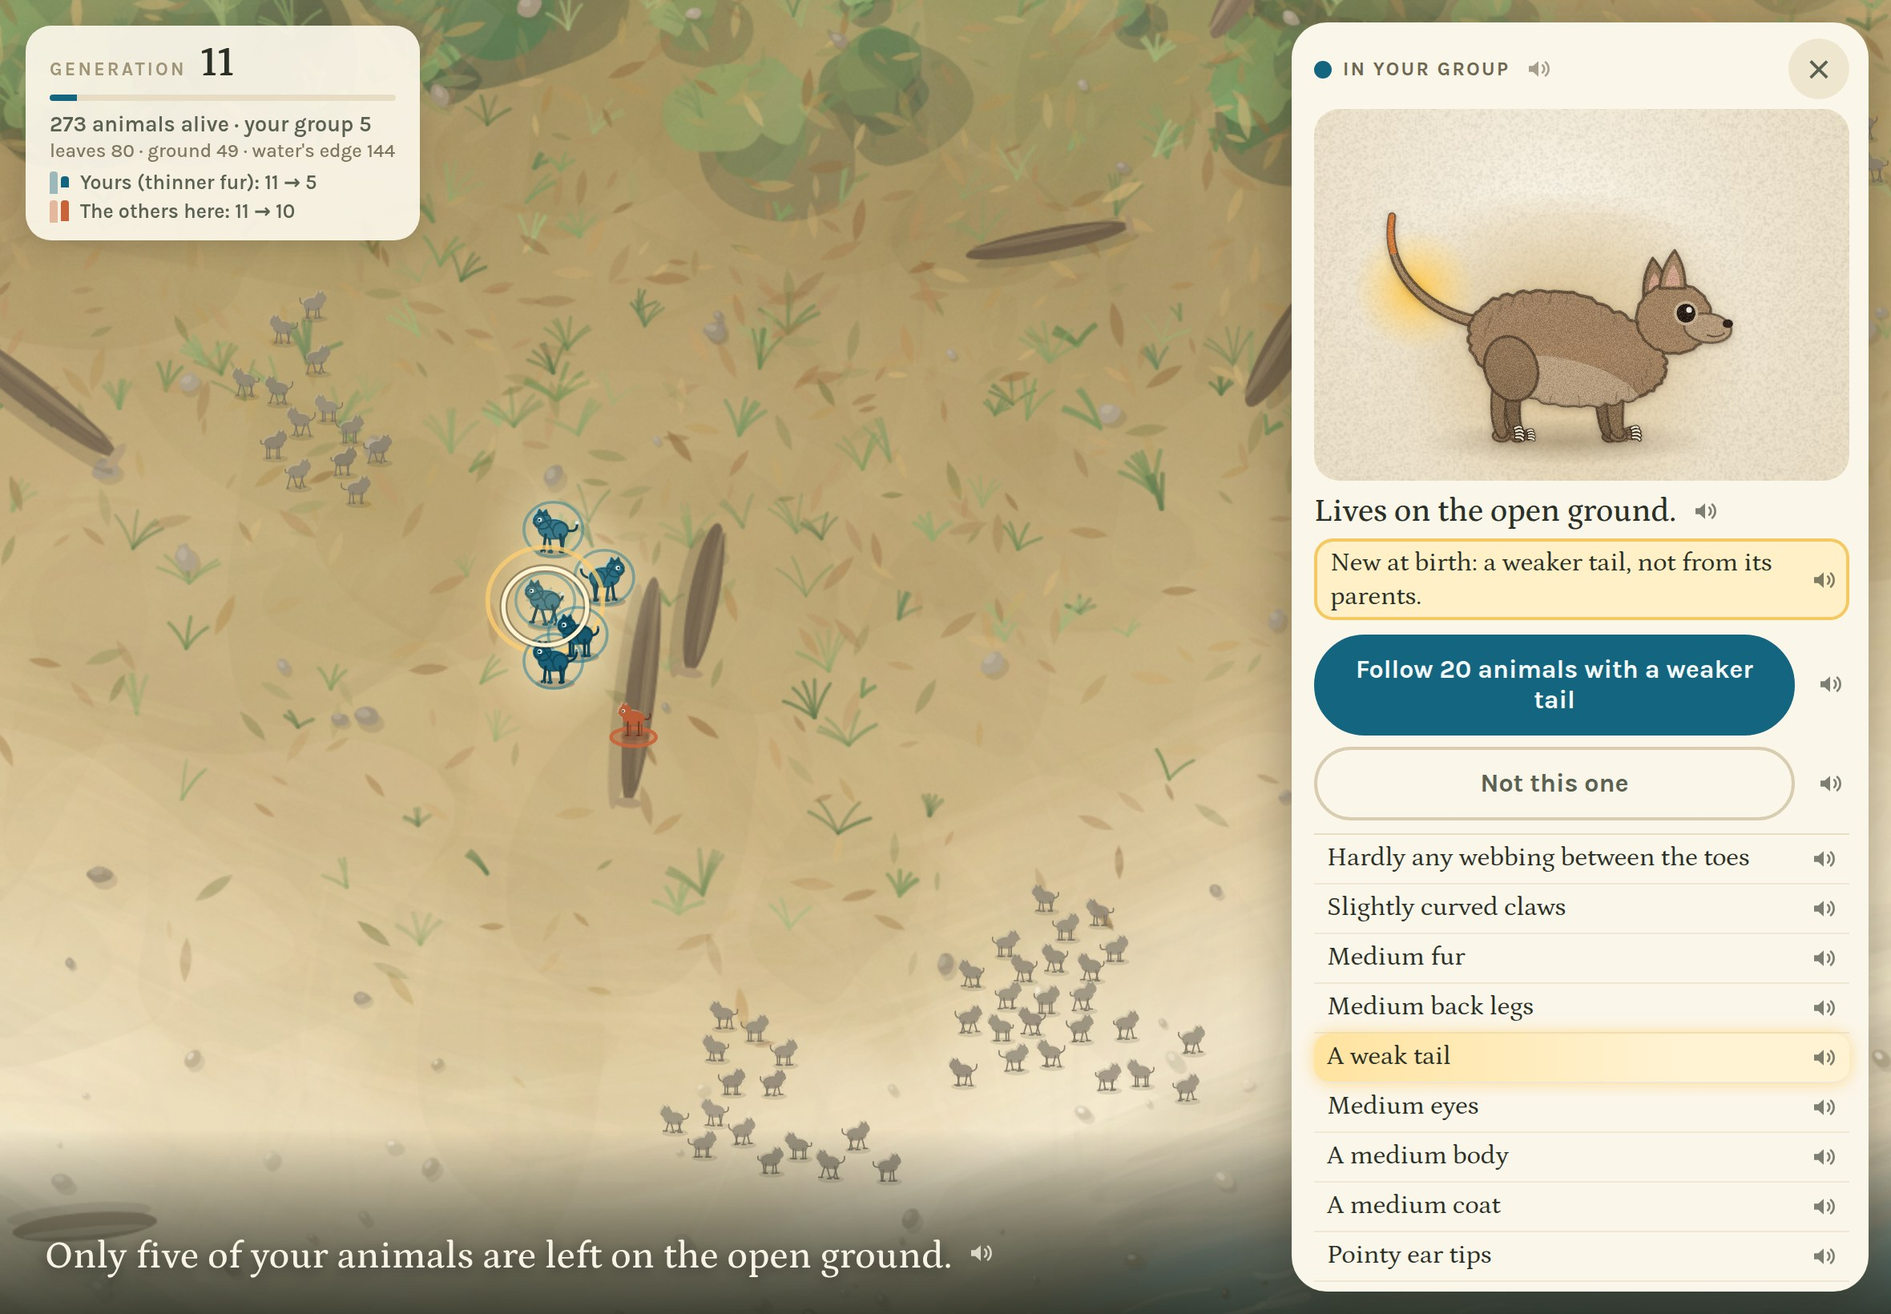
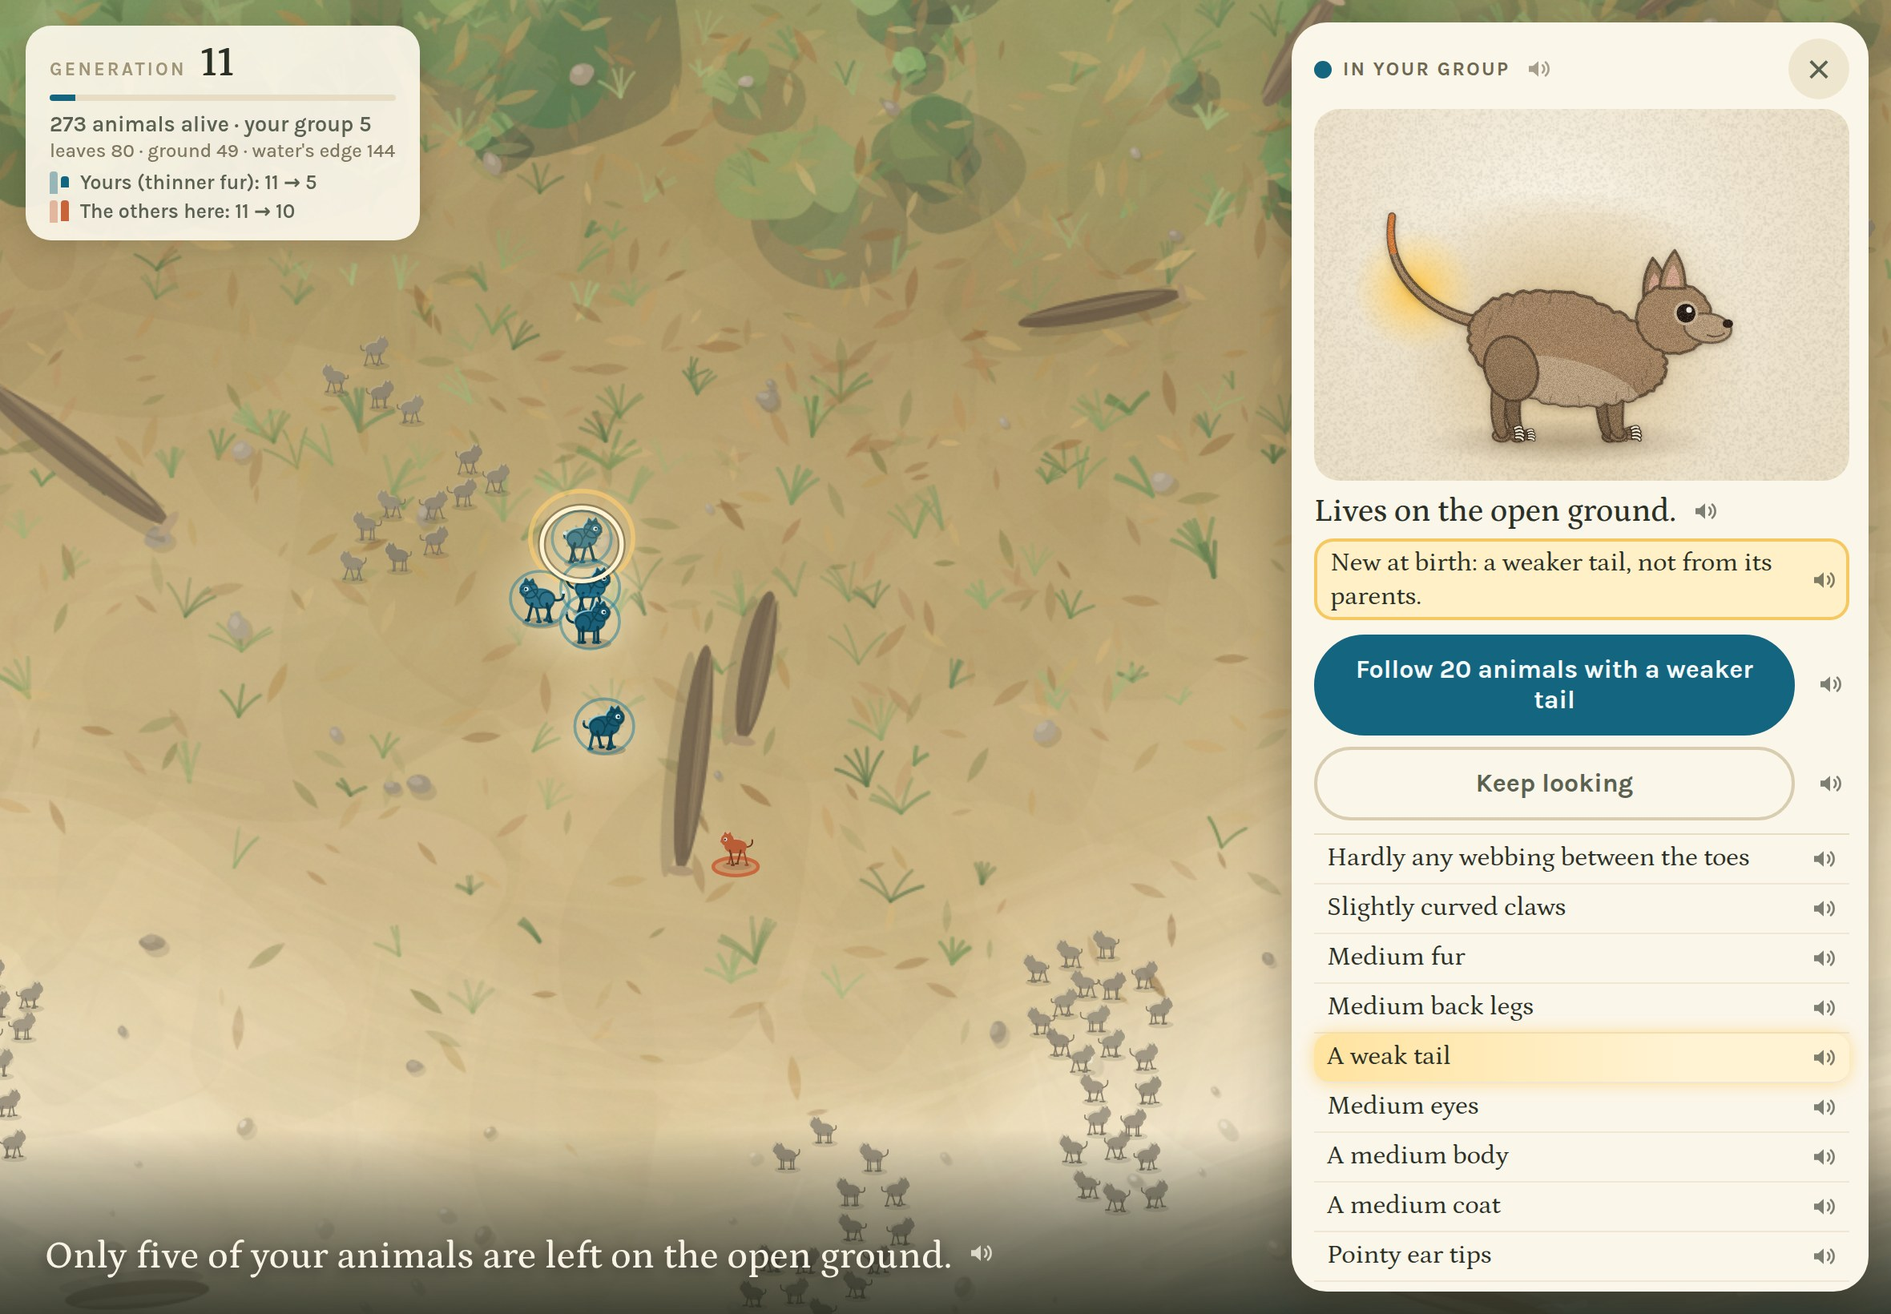
"Keep looking" replaces "Not this one" on a glowing baby's card
It closes the card and leaves the glow on, so a child can look at
several babies and come back to one. The glow still ends on its own
after GLOW_GENERATIONS. ×, a tap on empty ground and Escape still close
the card. Scope decision 43; the follow and card screenshots were shot
again. lineage-m1 is unchanged.

Claude-Session: https://claude.ai/code/session_01GSopAEV6FFZ4i4mLAerJib

diff --git a/game/src/main.js b/game/src/main.js
@@ -27,7 +27,7 @@ import {
   skipDoneLines, lastPassed, madeIt, endingTitle, question, choicesHeading, choiceRecap, noChoices, neutralLines,
   evidenceLine, countLine, YOURS, SINCE_TITLE, comparisonLines, OTHERS_HERE, yoursWith, fairHeading, OTHERS_DIED_TOO, OTHERS_ALIVE,
   inYour, notInYour, PASSED_AWAY, livesLine, newAtBirthLine, lookLine,
-  GLOW_HINT, followButton, followSpread, NOT_THIS, spreadLine, SPREAD_GONE, SPREAD_SHORT, SPREAD_COMMON,
+  GLOW_HINT, followButton, followSpread, KEEP_LOOKING, spreadLine, SPREAD_GONE, SPREAD_SHORT, SPREAD_COMMON,
 } from "./narration.js";
 import { speakerButton, isSpeaking } from "./speech.js";
 import {
@@ -493,10 +493,12 @@ export class Game {
     this.updateCard(); // follow buttons again
   }
 
-  /** "Not this one": it stops glowing. No group is made. */
-  notThis(g) {
-    this.story.dismiss(g.id);
-    this.syncGroups();
+  /**
+   * "Keep looking": the card closes and the baby keeps glowing, so the child can
+   * look at others and come back to it (scope decision 43). Its glow still ends
+   * on its own after GLOW_GENERATIONS.
+   */
+  keepLooking() {
     this.closeCard();
   }
 
@@ -828,11 +830,11 @@ export class Game {
 
   /**
    * A glowing newborn's card always offers to follow its new variation (scope
-   * decisions 32, 36 and 42), and "Not this one". When both sides have at least
-   * MIN_SIZE animals in its habitat, the button says the fair test's real size:
-   * "Follow 14 animals with smaller eyes". Otherwise "Follow animals with
-   * smaller eyes", and the world first fast-forwards to see if it spreads. Only
-   * while the world is watched and follows are left.
+   * decisions 32, 36 and 42), and "Keep looking" (decision 43). When both sides
+   * have at least MIN_SIZE animals in its habitat, the button says the fair
+   * test's real size: "Follow 14 animals with smaller eyes". Otherwise "Follow
+   * animals with smaller eyes", and the world first fast-forwards to see if it
+   * spreads. Only while the world is watched and follows are left.
    */
   renderFollow() {
     const c = this.card, s = this.story;
@@ -852,7 +854,7 @@ export class Game {
       row.append(b, speakerButton(doc, () => text));
       return row;
     };
-    this.cardFollowEl.replaceChildren(button(text, "go", () => this.followFromMap(g)), button(NOT_THIS, "no", () => this.notThis(g)));
+    this.cardFollowEl.replaceChildren(button(text, "go", () => this.followFromMap(g)), button(KEEP_LOOKING, "keep", () => this.keepLooking()));
   }
 
   /** Closes quickly; `now` skips the transition. */

diff --git a/game/styles.css b/game/styles.css
@@ -326,7 +326,7 @@ html, body { margin: 0; padding: 0; height: 100%; overflow: hidden; background: 
 
 
 /* ---- Active choosing (scope decisions 32–34): follow a glowing newborn's variation as a fair test. ---- */
-/* A glowing newborn's card: follow, or not this one. */
+/* A glowing newborn's card: follow, or keep looking. */
 #card-follow { display: flex; flex-direction: column; gap: 7px; margin-top: 9px; }
 #card-follow[hidden] { display: none; }
 #card-follow .follow-row { display: flex; align-items: center; gap: 4px; }
@@ -334,7 +334,7 @@ html, body { margin: 0; padding: 0; height: 100%; overflow: hidden; background: 
   flex: 1; min-height: 46px; padding: 10px 14px; border: 2px solid #14657F; border-radius: 999px; cursor: pointer;
   background: #14657F; color: #F4FBFD; font-family: Karla, system-ui, sans-serif; font-size: 16px; font-weight: 700; line-height: 1.2;
 }
-#card-follow .no button:not(.say) { background: #FBF6EA; border-color: #D8CDB1; color: #5A6151; }
+#card-follow .keep button:not(.say) { background: #FBF6EA; border-color: #D8CDB1; color: #5A6151; }
 #card.above #card-follow { grid-column: 2; }
 /* "Since your last choice", before a new follow: the choice panel's look. */
 #since {

diff --git a/game/src/story.js b/game/src/story.js
@@ -80,7 +80,7 @@ export class Story {
     this.glowing = [];
     /** @type {Glow[]} recent newborns with a new variation, glowing or not */
     this.fresh = [];
-    /** @type {Set<number>} newborns the child said "Not this one" to, or tried to follow */
+    /** @type {Set<number>} newborns the child tried to follow with a spread: they stop glowing */
     this.dismissed = new Set();
     /** @type {null|Spread} a variation being fast-forwarded to see if it spreads */
     this.spread = null;
@@ -227,12 +227,6 @@ export class Story {
 
   /** How big a fair test on this variation would be now: the smaller side, at most MAX_SIZE. */
   sizeFor(x) { return testSize(this.sidesFor(x), this.maxSize); }
-
-  /** "Not this one": it stops glowing, and nothing else happens. */
-  dismiss(id) {
-    this.dismissed.add(id);
-    this.refreshGlow();
-  }
 
   /**
    * Too few carry the variation here to start a fair test right away, so the

diff --git a/game/src/narration.js b/game/src/narration.js
@@ -86,7 +86,8 @@ export const GLOW_HINT = "Tap a glowing baby to see what's new.";
 export const followButton = (n, group) => `Follow ${n} animals with ${group}`;
 /** Too few here to start a fair test right away: following it first fast-forwards to see if it spreads (scope decision 42). */
 export const followSpread = (group) => `Follow animals with ${group}`;
-export const NOT_THIS = "Not this one";
+/** Closes the card and leaves the glow on, so the child can look at other babies and come back (scope decision 43). */
+export const KEEP_LOOKING = "Keep looking";
 /** How many of the latest counts the spread's line shows. */
 const SPREAD_COUNTS = 3;
 /** The spread's live counter, updated each generation: "Will it spread? Animals with smaller eyes: 3… 7… 12…" */

diff --git a/game/index.html b/game/index.html
@@ -33,7 +33,7 @@
     <p id="card-where"></p>
     <p id="card-new" hidden></p>
     <div id="card-counts" hidden></div>
-    <!-- A glowing newborn: follow its new variation, or not (scope decisions 32 and 42). -->
+    <!-- A glowing newborn: follow its new variation, or keep looking (scope decisions 32, 42 and 43). -->
     <div id="card-follow" hidden></div>
     <div id="card-traits"></div>
   </div>

diff --git a/design/current/README.md b/design/current/README.md
@@ -37,7 +37,7 @@ The moments deep in a story take a few seconds to reach. A small "getting there"
 | **Arrival** | `?moment=arrival` | The opening, before the first tap. Generation 0; the camera is on the webbed family in the high leaves. The hint reads "Drag to look around · tap an animal to follow its family" and the log "Tap an animal to follow its family." | `arrival-landscape.jpg`, `arrival-portrait.jpg` · world.js, herd.js (the founders), main.js (`start`), narration.js (`START_LINE`), index.html (`#hint`) |
 | **A generation** | `?moment=generation` | Mid-story, just before a generation passes. Generation 20, after 3 follows: "Yours (thinner fur): 13 → 18", "The others here: 13 → 10", and the generation bar almost full (the next generation arrives 3 s after the moment opens). | `generation-*.jpg` · main.js (`frame`, `generation`, `updateHud`), herd.js, narration.js (`groupLines`) |
 | **A variation** | `?moment=variation` | One newborn with a new variation, glowing (the calm rule: at most three glow, only ones a child can follow). Generation 2, family 4. The log names only glowing babies: "One of your babies was born with rounder ear tips." (scope decision 38). | `variation-*.jpg` · herd.js (the glow ring), story.js (`updateGlow`: which newborns glow), cohorts.js (`newbornVariation`), narration.js (`groupLines`, `GLOW_HINT`) |
-| **Following a trait** | `?moment=follow` | A glowing newborn's card with the fair test's real size, "Follow 20 animals with a weaker tail", and "Not this one" (generation 11, after 1 follow). | `follow-*.jpg` · main.js (`showCard`, `renderFollow`), cohorts.js (`sidesIn`, `testSize`, `canStart`), narration.js (`followButton`, `NOT_THIS`), styles.css (`#card-follow`) |
+| **Following a trait** | `?moment=follow` | A glowing newborn's card with the fair test's real size, "Follow 20 animals with a weaker tail", and "Keep looking", which closes the card and leaves the glow on (scope decision 43; generation 11, after 1 follow). | `follow-*.jpg` · main.js (`showCard`, `renderFollow`, `keepLooking`), cohorts.js (`sidesIn`, `testSize`, `canStart`), narration.js (`followButton`, `KEEP_LOOKING`), styles.css (`#card-follow`) |
 | **Will it spread?** | `?moment=spreading` | A variation too rare to start a fair test, fast-forwarded to see if it spreads (scope decision 42). Family 4 tapped a newborn with less webbing at generation 5, when 6 animals there had it. Now it is generation 8: the Fast-forward badge is up, the animals hurry, and the log counts the latest three generations, "Will it spread? Animals with less webbing between the toes: 5… 8… 10…". The count changes in place every 2 s. | `spreading-*.jpg` · story.js (`trySpread`, `spreadGeneration`), main.js (`startSpread`, `spreadCounter`), narration.js (`followSpread`, `spreadLine`), speech.js (`spoken`: "5, 8, 10.") |
 | **It disappeared** | `?moment=fizzled` | The spread stopped because none have the variation any more. Family 3, generation 5: "Will it spread? Animals with thicker fur: 1… 1… 0…", then "It disappeared. Most new traits do." The world is back at its usual pace, and the child keeps their family (the try was not a follow). With too few at the cap, the line is "It didn't spread far enough." | `fizzled-*.jpg` · story.js (`stopSpread`), main.js (`spreadFailed`), narration.js (`SPREAD_GONE`, `SPREAD_SHORT`, `SPREAD_COMMON`) |
 | **A fair test** | `?moment=fairtest` | Both groups five generations after a follow: yours in blue, the others here in orange beside them (each of yours got a twin), and in the corner "Yours (a weaker tail): 20 → 31", "The others here: 20 → 31". Generation 16. | `fairtest-*.jpg` · cohorts.js (`formCohorts`: the twins), bridge.js (`followCohorts`, the others' births and deaths), herd.js (orange rings), main.js (`fairRows`, `updateHud`) |
@@ -48,7 +48,7 @@ The moments deep in a story take a few seconds to reach. A small "getting there"
 | **A prediction's result** | `?moment=prediction-result` | The second follow (generation 11): the "Since your last choice" sheet with "Yours (thinner fur): 11 → 5", "The others here: 11 → 10", then "Your prediction:" with "You thought it would grow. It shrank." The shortcut picks the "need" answer, so the need line follows. "Next" (or 15 s) goes on to the new follow. | `prediction-result-*.jpg` · main.js (`openSince`, `fillSince`, `predictionBlock`), journal.js (`resultOf`), styles.css (`#since`, `.prediction`) |
 | **The ending** | `?moment=ending` | A surviving ending after 8 follows: "Your group survived 76 generations." It shows the drawing, the reveal ("a lot like a beaver"), the traits against the start, the question, the clue, "Your last fair test", "Your predictions", the follows and the two buttons. | `ending-*.jpg` · main.js (`showEnding`), creature.js, reveal.js (with `docs/LINEAGE_REAL_ANIMAL_REVEAL.md`), evidence.js (the clue), journal.js (the predictions), variations.js (`comparedRows`), narration.js, styles.css (`#ending`, `#ending-fair`) |
 | **Died out** | `?moment=extinct` | Your group died out after 10 follows: "Their story lasted 60 generations." The ending leads with the fair test (scope decision 37): "In the high leaves: Yours (more curved claws): 13 → 0, The others here: 13 → 26", "The others here are still alive.", then the question. Under the drawing, the reveal in the past tense (scope decision 40): "Your animals were becoming a lot like a bushbaby." "Big eyes helped them see well. Long back legs helped them move fast." | `extinct-*.jpg` · main.js (`showEnding`: `#ending-lead`, the reveal's tense), reveal.js (`revealPast`, `whyPast`), narration.js (`OTHERS_DIED_TOO`, `OTHERS_ALIVE`), styles.css (`#ending-lead`) |
-| **A creature card** | `?moment=card` | A card open on an animal with a new trait (generation 1): "New at birth: more webbing between the toes, not from its parents." It glows, so the card offers it: "Follow animals with more webbing between the toes" (with no number, because too few there have it to start a fair test right away) and "Not this one". A ring marks the animal on the map. | `card-*.jpg` · main.js (`showCard`, `placeCard`, `renderFollow`), creature.js (the drawing), variations.js (`plainRows`), bridge.js (`newTraitOf`), narration.js (card lines), herd.js (the ring), styles.css (`#card`) |
+| **A creature card** | `?moment=card` | A card open on an animal with a new trait (generation 1): "New at birth: more webbing between the toes, not from its parents." It glows, so the card offers it: "Follow animals with more webbing between the toes" (with no number, because too few there have it to start a fair test right away) and "Keep looking". A ring marks the animal on the map. | `card-*.jpg` · main.js (`showCard`, `placeCard`, `renderFollow`), creature.js (the drawing), variations.js (`plainRows`), bridge.js (`newTraitOf`), narration.js (card lines), herd.js (the ring), styles.css (`#card`) |
 
 The Step 4 moments map onto these as follows:
 

diff --git a/LINEAGE_M2_CLASSROOM_SCOPE.md b/LINEAGE_M2_CLASSROOM_SCOPE.md
@@ -126,7 +126,7 @@ LINEAGE should feel like a quiet nature documentary. It is set at golden hour an
    - **The glow (calm rule):** a newborn in the child's group glows when the trait new in it at birth (a body mutation of 0.12 or more) takes it past the group's usual. The line is the replacement rule's threshold: the group's median, plus or minus 0.12.
      - At most 3 glow at a time: meaningful traits first, then the newest, one per variation.
      - A newborn glows in the generation it is born and the next one. Nothing else flashes any more.
-   - **The card:** tapping a glowing newborn opens its card with "Follow animals with [trait]" and "Not this one". The buttons show only while the world is watched (not during a fast-forward or a panel) and follows are left. "Not this one" stops the glow and makes no group.
+   - **The card:** tapping a glowing newborn opens its card with "Follow animals with [trait]" and "Not this one". The buttons show only while the world is watched (not during a fast-forward or a panel) and follows are left. "Not this one" stops the glow and makes no group. *"Not this one" was replaced by "Keep looking" in decision 43 (2026-09-24): it closes the card and the glow stays.*
    - **A follow counts as a choice.** "Since your last choice" comes first (decision 34), then a prediction after every third follow (decision 28), then the usual 2-generation fast-forward.
    - **Limits:** at most STORY_CHOICES (15) follows. There are no fixed choice points. A story ends at generation 76, or when the child's group dies out.
 33. **The fair test** (2026-09-24, replaces the unchosen groups in decision 9).
@@ -224,7 +224,7 @@ LINEAGE should feel like a quiet nature documentary. It is set at golden hour an
 41. **No tree shrew on a died-out ending** (2026-09-24, changes decision 40's fallback). A group that died out never gets the first mammals. If it matches no animal, the reveal is "Your animals didn't have time to change.", with one "why" line: "Their story ended before new traits could spread." A surviving group keeps the first mammals as its fallback, as it is. The reveal stays after the fair test on died-out endings (confirmed).
    *With the same simulated child on the 270 stories: 99 of 234 died-out endings (42%) get the new line, including 33 of the 40 families that die before any follow. No died-out ending gets the first mammals; 5 of 36 surviving endings still do.*
 42. **Will it spread? A fast-forward instead of "Watch it?"** (2026-09-24, replaces the watching path in decisions 33 and 36 and the watched options in decision 34). Fast-forwarding never changes the biology.
-   - **The card** on a glowing newborn always offers "Follow animals with [trait]" and "Not this one". "Watch it?", the Watching list and the gentle line are gone.
+   - **The card** on a glowing newborn always offers "Follow animals with [trait]" and "Not this one" ("Keep looking" since decision 43). "Watch it?", the Watching list and the gentle line are gone.
      - When both sides have at least MIN_SIZE (10) in the habitat, the fair test starts right away, as before, and the button says its real size: "Follow 14 animals with smaller eyes" (decision 36).
      - Otherwise the button has no number, and the world fast-forwards to see if the variation spreads.
    - **The spread:** the world speeds up (2 s a generation, with the Fast-forward badge), and one line in the log counts the animals with it in that habitat, the latest three counts: "Will it spread? Animals with smaller eyes: 3… 7… 12…". The count changes in place each generation. The line has a speaker ("3, 7, 12.").
@@ -262,6 +262,11 @@ LINEAGE should feel like a quiet nature documentary. It is set at golden hour an
      | webbed tries starting in the high leaves | 110 | 114 | 123 |
 
      *SPREAD_MAX stays 10 (for Marc to confirm). A longer cap barely lowers the fizzles, starts no more tests, and lets more stories end in a skip.*
+43. **Keep looking** (2026-09-24, replaces "Not this one" in decisions 32 and 42). On a glowing baby's card, "Keep looking" replaces "Not this one".
+   - It closes the card and leaves the glow on, so a child can look at several babies and come back to one.
+   - The glow still ends on its own after its usual generations (GLOW_GENERATIONS, 2), under the calm rule (decision 32).
+   - The card still closes with ×, a tap on empty ground, or Escape.
+   - The simulated child never used "Not this one", so no measurement changes. The `follow` and `card` screenshots in `design/current/` were shot again.
 
 ## What the engine already gives you (do not rebuild these)
 

diff --git a/game/README.md b/game/README.md
@@ -54,7 +54,9 @@ A story that lasts takes about 19 minutes at most, less for each fast-forward.
    group's median for that trait, plus or minus 0.12). At most three glow at once, meaningful
    traits first, then the newest, one per variation; nothing else flashes. The first glow of a
    story says "Tap a glowing baby to see what's new." Tapping one opens its card with "Follow
-   animals with smaller eyes" and "Not this one".
+   animals with smaller eyes" and "Keep looking" (scope decision 43). "Keep looking" closes the
+   card and leaves the glow on, so a child can look at several babies and come back to one; the
+   glow still ends on its own after `GLOW_GENERATIONS`.
 3. **The fair test** (scope decisions 33, 36 and 37). Following makes two groups of the same
    size in the newborn's habitat: the animals there that carry the variation, the newborn and
    the ones nearest it, and for each of them the nearest one there that doesn't, its twin: "the
